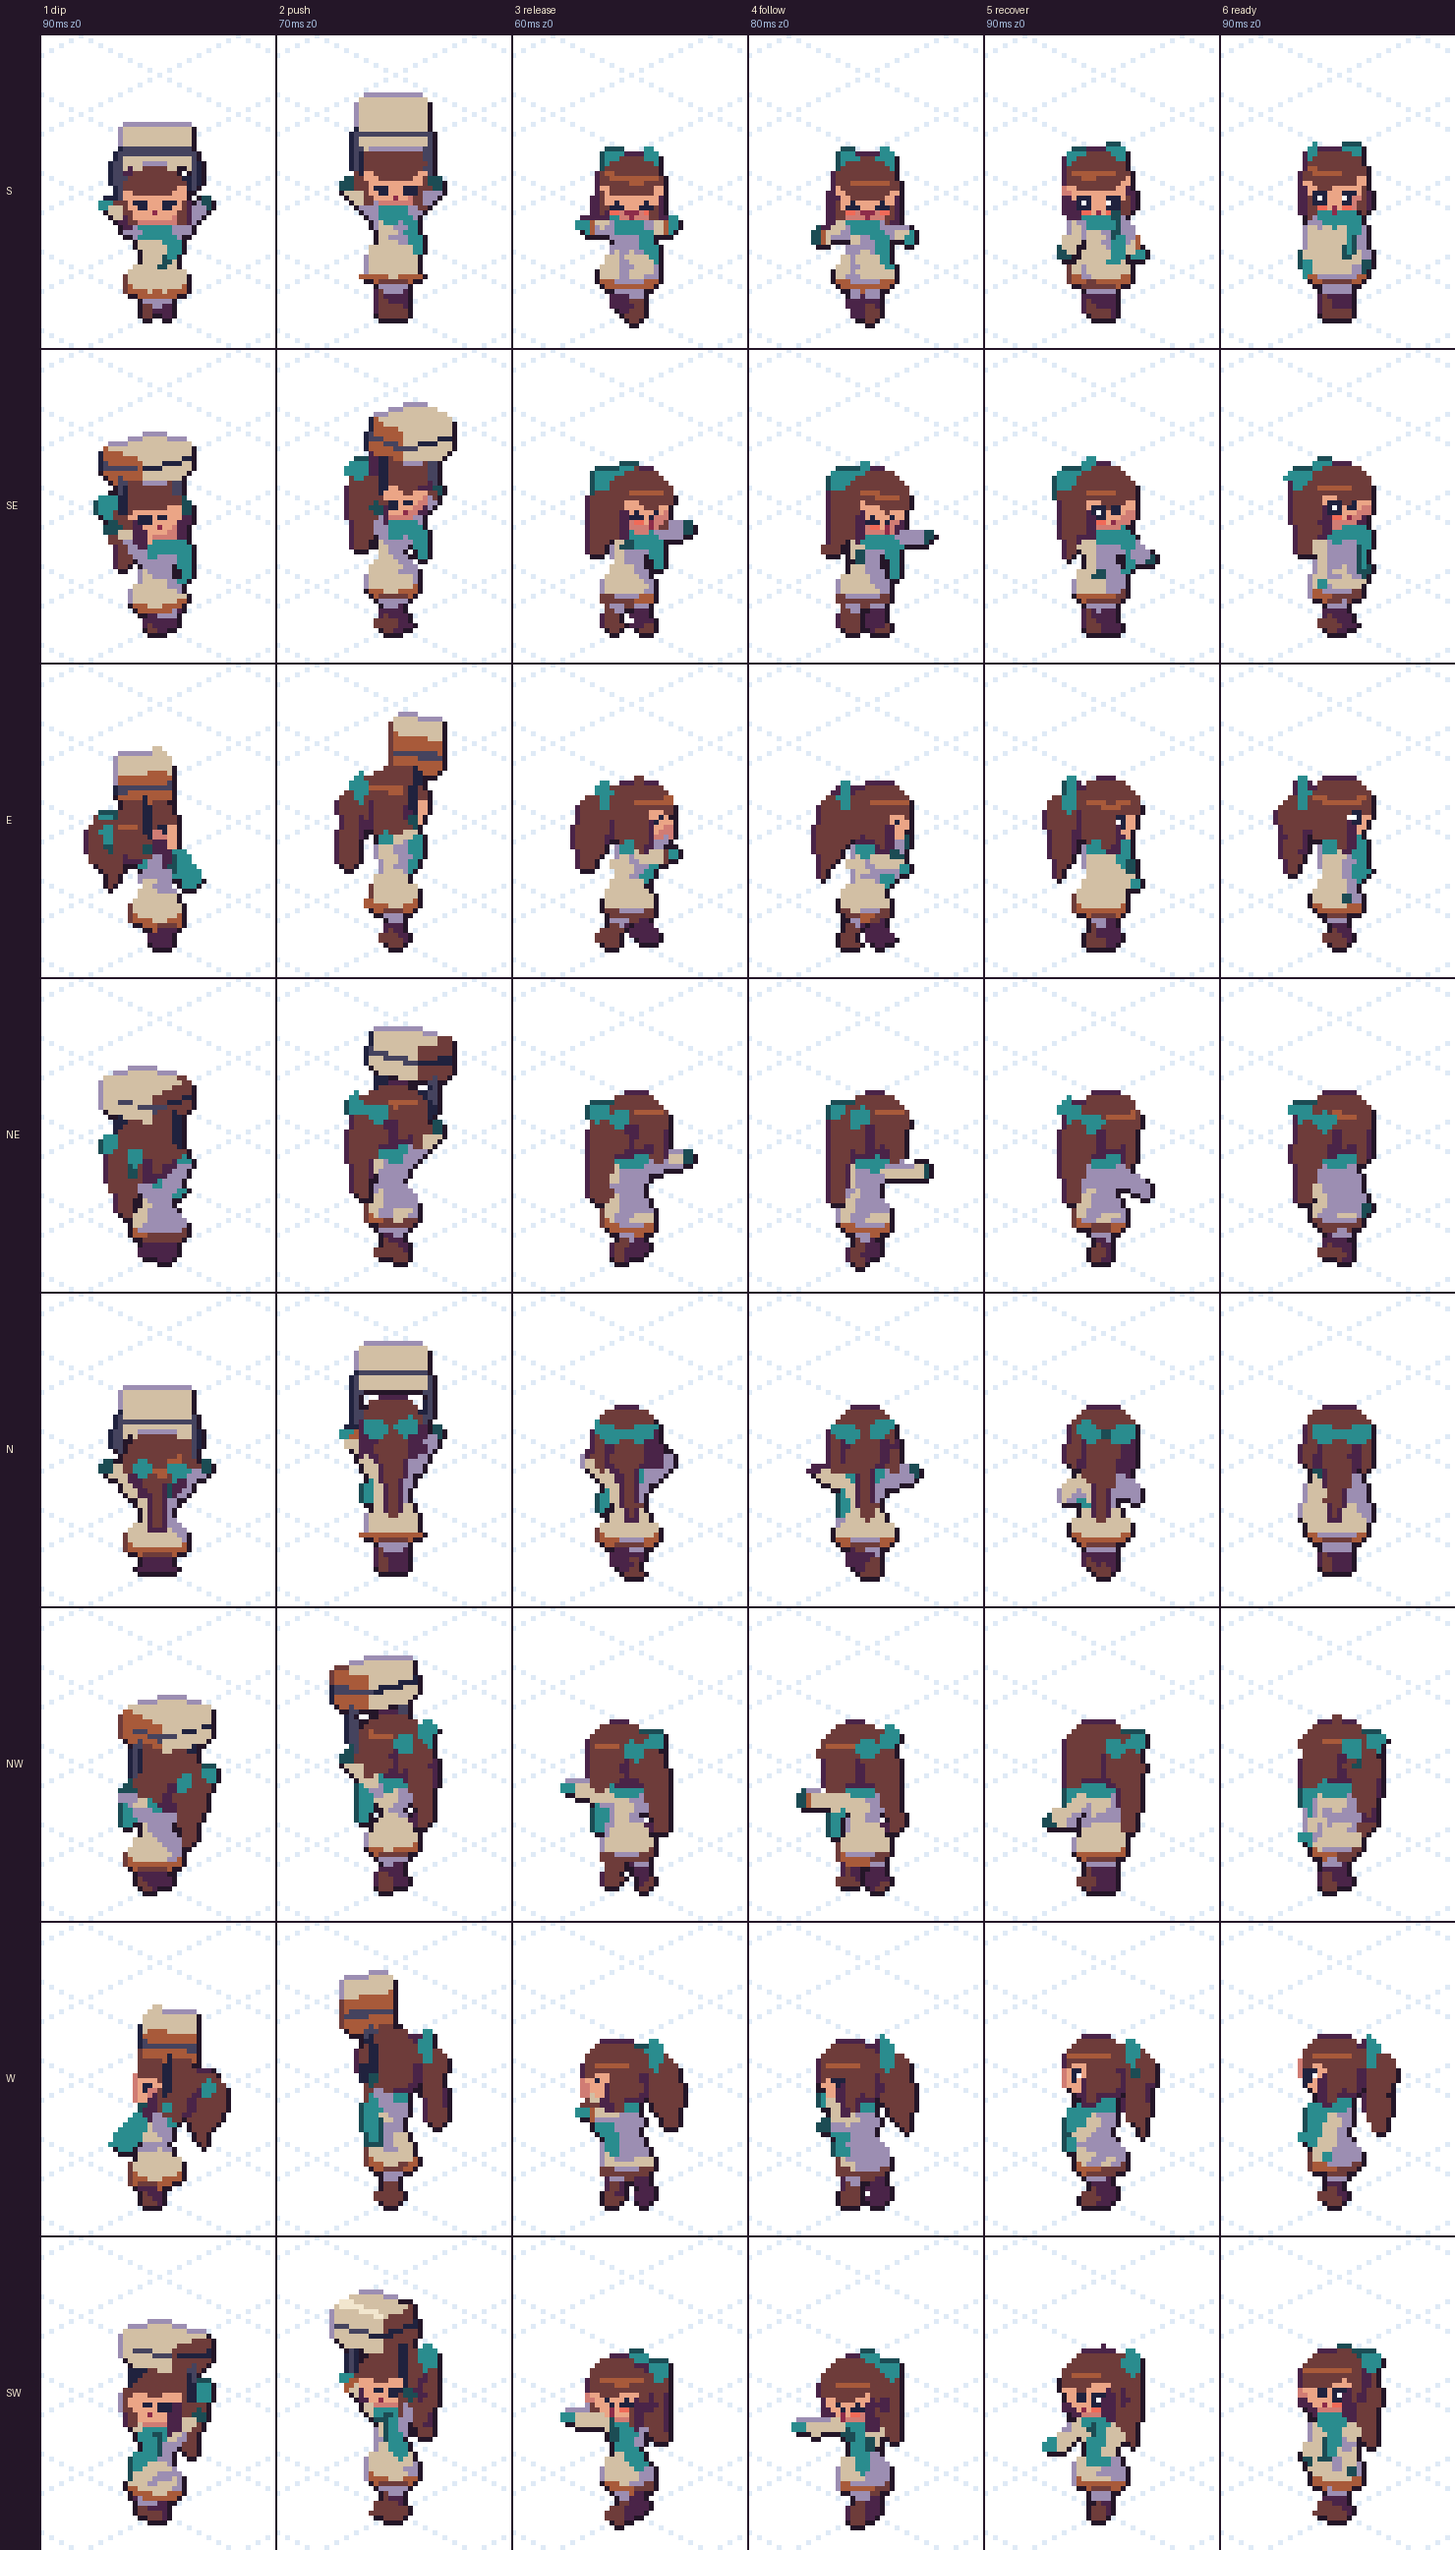
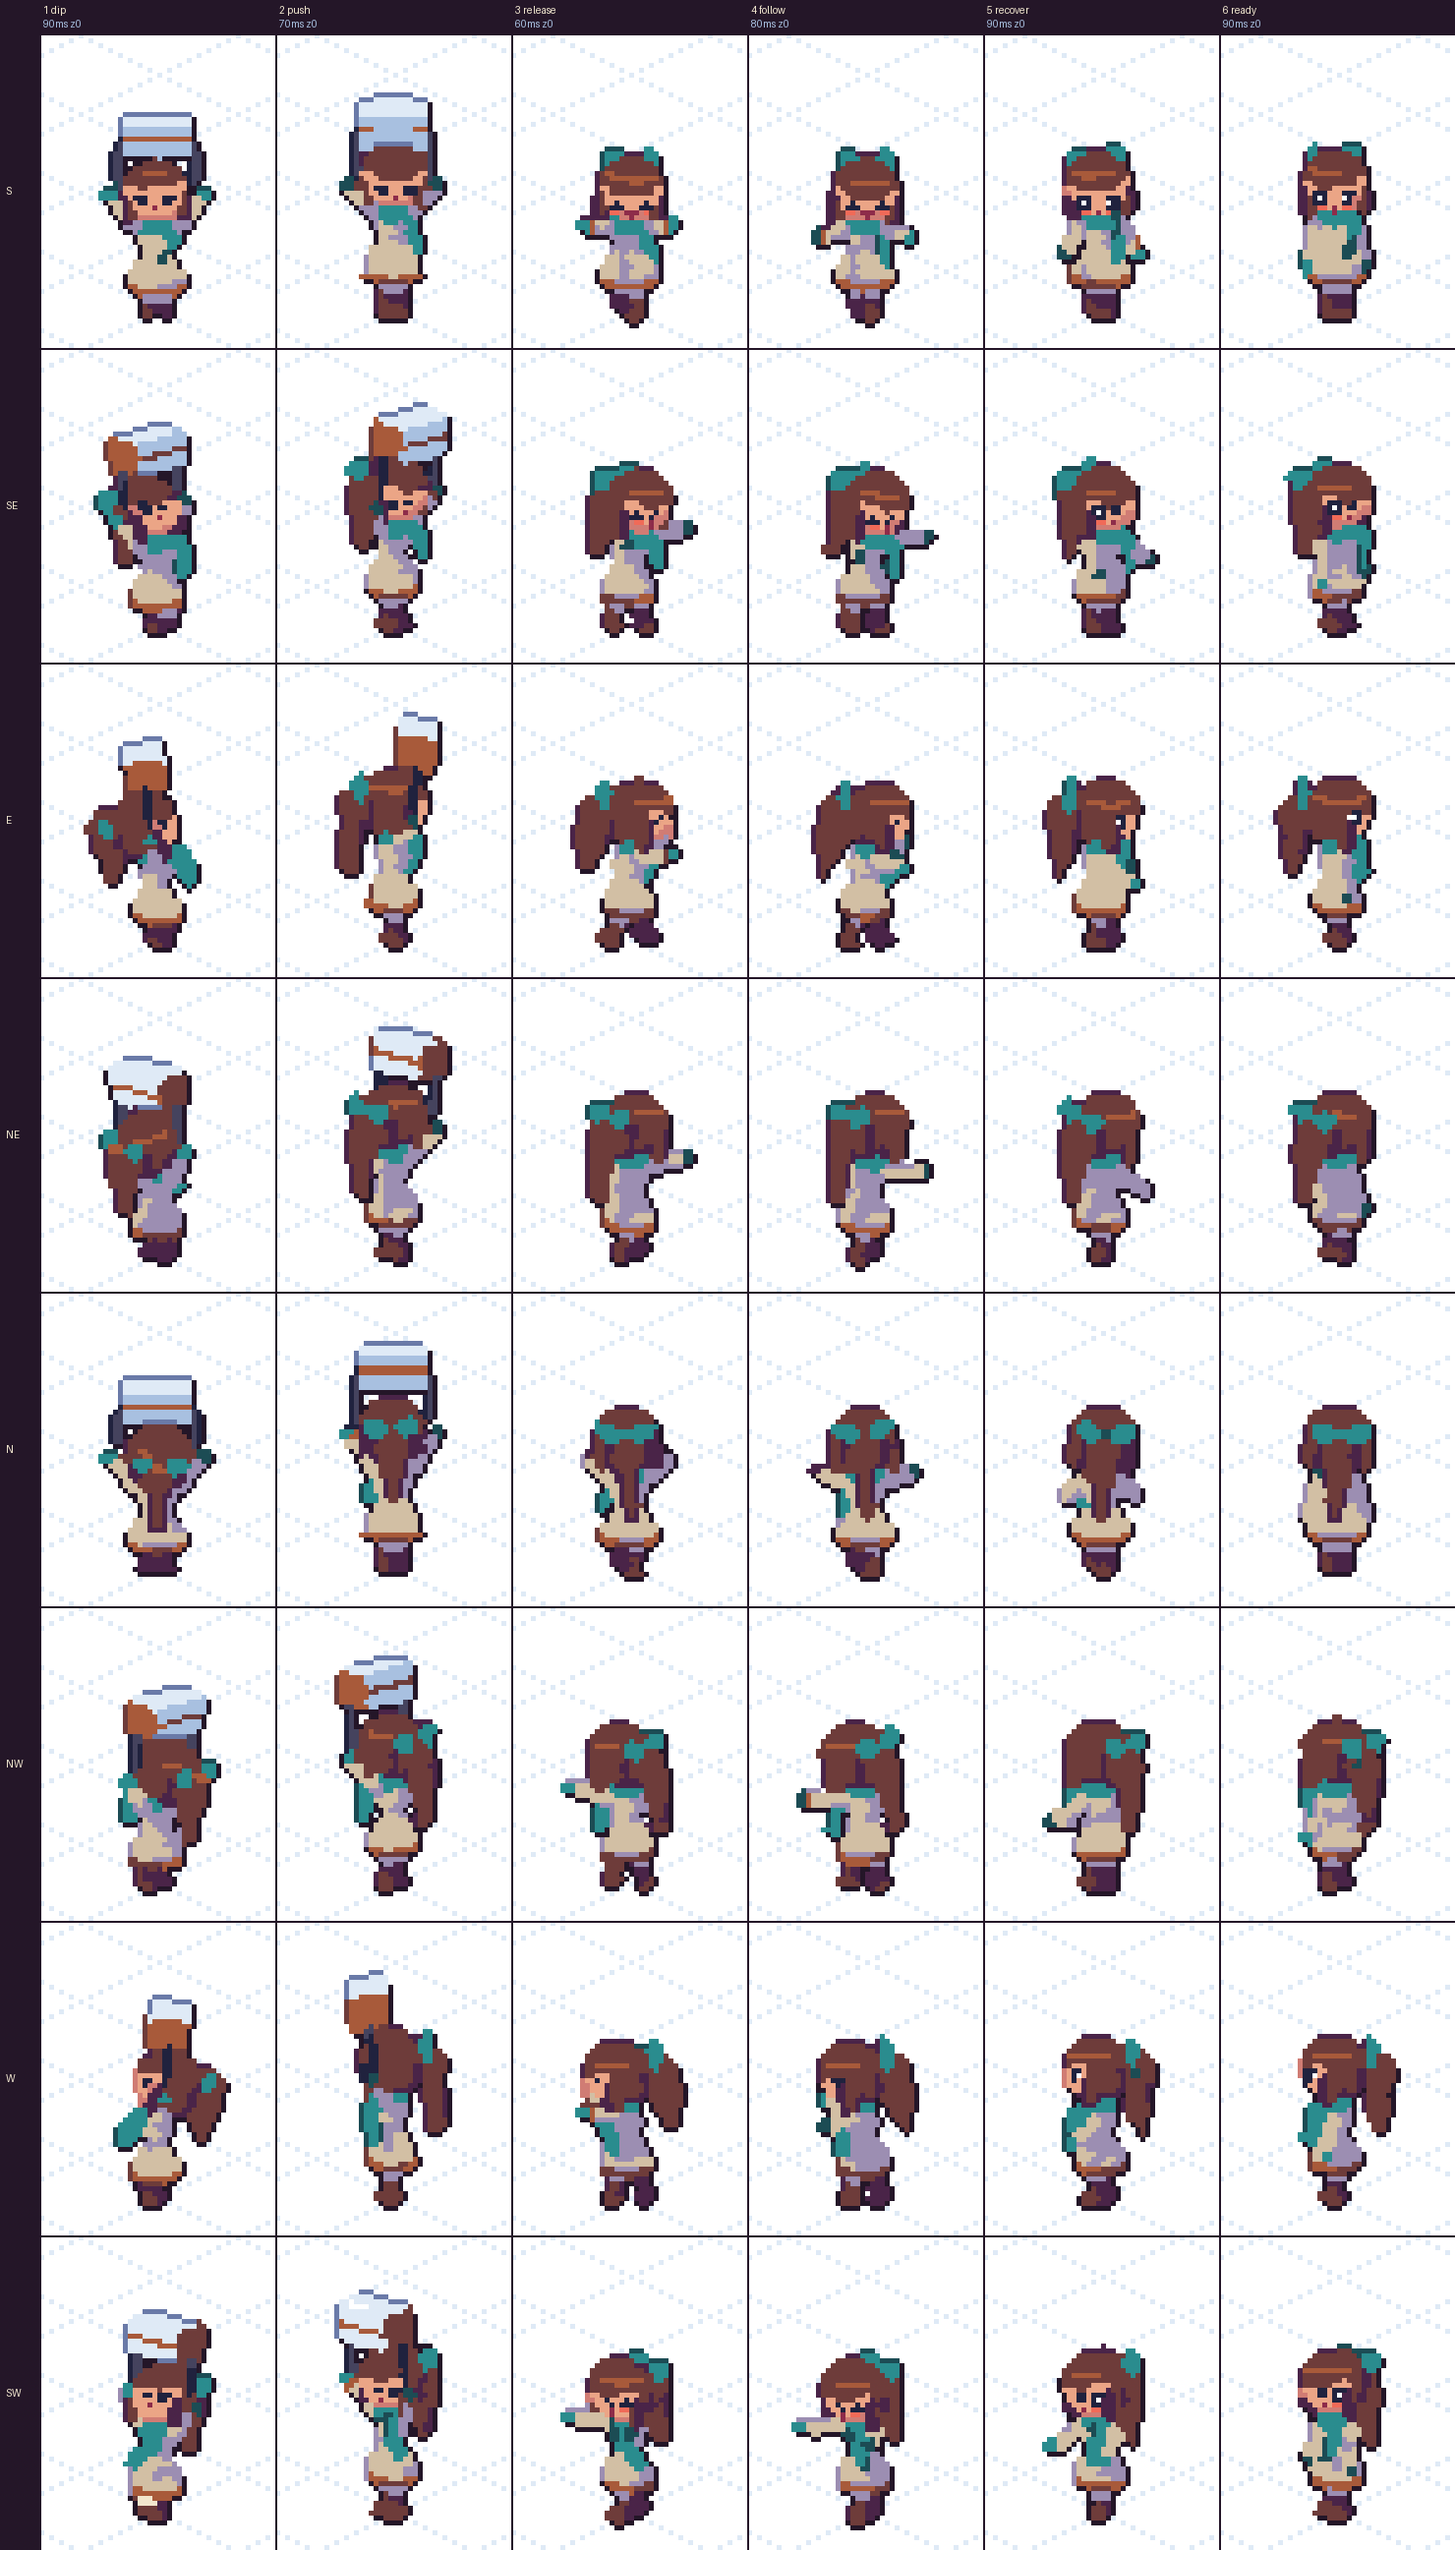
r11: carry_throw uses final crate

diff --git a/docs/review/r11_wpD.md b/docs/review/r11_wpD.md
@@ -1,33 +1,35 @@
 # r11 WP D: Throw / Air (S4_halfup_bow)
 
-Every clip passes QA with 0 chain penetrations and 0 orphans. Builds: throw 9, carry_throw 2, fall 5, land 1.
+All clips pass QA with 0 chain penetrations and 0 orphans.
 
-## throw: 8 frames, 520 ms, one-shot, cancelable from f7
+## throw: 8 frames, 520 ms, cancelable from f7
 | # | frame | ms | intent |
 |---|---|---|---|
-| 1 | scoop | 70 | `prop_show`. Deep crouch, right hand low with the snowball. |
-| 2 | pack | 60 | Both hands pat the ball at her chest. |
-| 3 | cock | 100 | Torso turned 30° away, ball out to the side and back. The left arm points at the target. |
-| 4 | step | 60 | Left-foot step (FK). The arm trails behind for a whip. |
-| 5 | release | 50 | `throw_release`. Arm straight forward at shoulder height. |
-| 6 | follow | 60 | Arm swings down across her body. |
+| 1 | scoop | 70 | `prop_show`. Deep crouch, hand low. |
+| 2 | pack | 60 | Pats the ball at her chest. |
+| 3 | cock | 100 | Torso turned 30° away, ball out side-back. Left arm aims. |
+| 4 | step | 60 | Left-foot step; the arm trails (whip). |
+| 5 | release | 50 | `throw_release`. Arm forward at shoulder height. |
+| 6 | follow | 60 | Arm swings across her body. |
 | 7-8 | recover, ready | 60 each | Back to rest. |
 
-The snowball is on `hand_R` at the plan's offset, radius 2.5. It is drawn on f1-f4 and hidden from f5.
+Snowball: on `hand_R`, offset (0,-1.6,0.7), radius 2.5, drawn on f1-f4.
 
 ## carry_throw: 6 frames, 480 ms, cancelable from f5
-dip 90 (knees bend, crate sinks 0.8u, still clear of the head), push 70 (crate goes up and forward), release 60 (`throw_release`, arms thrust forward, step), follow 80, recover 90, ready 90. The crate prop is copied from `carry_idle.json` when the clip is generated. Once WP C freezes its spec, regenerate the clip so it picks that up.
+dip 90, push 70, release 60 (`throw_release`, arms thrust forward, step), follow 80, recover 90, ready 90.
+- **Crate:** WP C's `carry_idle.json` `props[0]`, copied verbatim. `frames` is set to dip and push.
+- **Dip:** uses C's hold pose (176 / 38 / elbow 12) and dips with the knees only.
+- **Head clearance:** crate box vs the hair_cap shape. Dip 1.29, push 1.35; carry_idle measures 1.26-1.31.
 
-## fall: loop, 4 frames x 80 ms, loop_seam 0.0
-Arms flap out to the sides and the left arm leads the right by one key. Knees are tucked and pigeon-toed. A net head pitch of about 10° swings the pony back so it reads as lifted. z_px stays 0 because the engine owns height.
+## fall: loop, 4 x 80 ms, loop seam 0.0
+Arms flap out to the sides, the left one key ahead of the right. Knees are tucked and pigeon-toed. Head pitched about 10° forward swings the pony back, so it reads as lifted. z_px stays 0 because the engine owns height.
 
 ## land: derived from jump_sc frames [9, 13]
-touchdown, hop, plop, settle, ready; 290 ms; `land` event on f1.
+touchdown, hop, plop, settle, ready; 290 ms; `land` on f1.
 
 ## Known issues
-- **Overhand cock.** The head is huge next to an 11.5u arm, so a high cock gets hidden by the head or pony in many directions. The cock is therefore side/back at chest-to-shoulder height. Snowball pixels at the cock are 4-8 in most views, but only 0-3 in W and SW (the far side, behind the pony).
-- **Release in NW.** The forward-right arm points straight away from the camera, so it is hidden in NW.
-- **Fall arms in E/W.** The flaps are mostly in depth, so they read weakly from the side.
-- **Land cancel window.** The derived clip inherits jump_sc's `cancelable` on hop, so cancel opens at f2 rather than the plan's f3. A derived clip can't patch individual frames.
-
-Generator scripts are in /tmp/wpd/gen/*_gen.py (outside the repo).
+- **Throw cock:** the large head hides a high overhand cock, so the cock is low, out to the side and back. Snowball visibility is 4-8 px in most views but only 0-3 px in W/SW, behind the pony.
+- **Release, NW:** the arm points away from the camera, so it is hidden.
+- **Fall, E/W:** the arm flaps are mostly in depth and read weakly.
+- **Land cancel:** a derived clip inherits hop's cancelable flag, so cancel opens at f2 instead of f3.
+- **Crate, N/NE:** the crate draws over the hair top on screen. This is depth ordering only, the same as in carry_idle.

diff --git a/docs/review/r11_review1_GD.md b/docs/review/r11_review1_GD.md
@@ -1,0 +1,71 @@
+# r11 Review 1: Game Director
+
+Script: `/tmp/gd_r11/check_r11.py` (full output: `/tmp/gd_r11/report.txt`). It checks every clip's sheet JSON and PNG against `r11_action_set_plan.md`.
+
+## Script results
+
+| clip | result | failing checks |
+|---|---|---|
+| idle, walk, run, jump_sc, fall | PASS | - |
+| climb, climb_top | PASS | - |
+| land | FAIL 2 | cancel (opens at f2 / 70 ms; plan says f3 / 120 ms), `derivedFrom` missing |
+| pick_up | FAIL 3 | `props[]` has 6 duplicate crate entries, no per-frame `prop.layer`, no `_prop` strip |
+| carry_idle | FAIL 2 | no `prop.layer`, no `_prop` strip |
+| carry_walk | FAIL 2 | no `prop.layer`, no `_prop` strip |
+| throw | FAIL 2 | no `prop.layer`, no `_prop` strip |
+| carry_throw | FAIL 2 | no `prop.layer`, no `_prop` strip |
+
+These all passed:
+- frame counts, total ms, durations in multiples of 10, loop flags
+- every event on its planned frame
+- direction sets
+- 48x64 cells and pivot (24,57) everywhere
+- PNG and strip grids
+- release anchors in all 8 directions (`hand_R[*][4]`, `carry[*][2]`)
+- climb `cycle_rise_px` 24; climb_top `root_px` decreasing steadily to (0,-30)
+- feet on row 57 +/-1 in every grounded frame
+- neutral-frame height within 1 px of idle (run within 2 px)
+
+Warnings, no action needed:
+- Throw and carry_throw step frames reach row 59. That is the step toward camera.
+- pick_up f3 reaches row 61 because the baked crate sits in front of her.
+- Chain pops are all intended pose changes:
+  - fall to land: dtop 7, the touchdown squash
+  - idle to throw: dtop 5, the scoop
+  - carry_idle to carry_throw: dtop 4, the dip
+  - walk to run: dbot 2
+- The land, jump, throw, carry_throw and climb_top exits into idle all match within 1 px (IoU at least 0.93). pick_up to carry_idle matches within 2 px.
+
+## Per clip
+
+- **idle: APPROVE.**
+- **walk: APPROVE.**
+- **run: CHANGES.** At 4x on a phone it reads as a fast walk. The 8° lean isn't visible, the stride is about the same width as walk, and the arms don't pump. Widen the push and flight leg spread by 2-3 px. Add a visible forward lean (head 1-2 px ahead of the hips in E/W/SE/SW). Swing the elbows clear of the torso on push frames.
+- **jump_sc, fall: APPROVE.**
+- **land: CHANGES.** Either make f2 (hop) non-cancelable and set `inputLockEnd_ms` to 120, or change the plan to f2+. Emit `derivedFrom: {"clip":"jump_sc","frames":[9,13]}` so re-cuts track jump_sc.
+- **climb: APPROVE.**
+- **climb_top: APPROVE.** It hands off to idle with no pop.
+- **pick_up: CHANGES.**
+  - Collapse `props[]` to one crate declaration. Move per-frame offsets into a per-frame `prop` object.
+  - The QA warning still stands: one frame uses 18 colours (limit is 16).
+  - In E/W the crate reads as a tall thin column, not a box. Give it real depth so it looks like the same cube from every side.
+- **carry_idle, carry_walk: CHANGES.**
+  - Same E/W crate silhouette fix as pick_up.
+  - In S/SW the crate's bottom edge sits on the hair line. Lift it 1-2 px so it clears the head (the "props never clip the head" gate).
+  - The carry offset (0,17.8,0) doesn't match the plan's (0,3,1.5). Reconcile them in the frozen carry spec.
+- **throw: CHANGES (data only).** The art reads well: the snowball shows at 4x, and the release pose is clear in all 8 directions.
+- **carry_throw: CHANGES (data only).**
+
+## Blocking issue for every prop clip
+
+Props are baked into the body sheet. There is no `<clip>_prop.png`, and frames carry only `props:["name"]`, not `prop:{id,bone,visible,layer}`. That means:
+- the engine can't hide the world crate and swap in a rock
+- the engine can't order the prop front or back
+- carry and snowball art can't be reused across clips
+
+Fixes:
+1. Export the prop strip on the same grid.
+2. Render the body without the prop.
+3. Emit a per-frame `prop` with `layer`.
+
+Then re-run `check_r11.py`.

diff --git a/00_REVIEW/r11_actions/README.md b/00_REVIEW/r11_actions/README.md
@@ -1,6 +1,6 @@
 # r11 - S4 action set (draft 1, before team review rounds)
 
-First pass by 4 parallel animators; all clips pass automated QA (no penetration, seamless loops, 0 orphans). carry_throw still uses a placeholder crate (being updated to the final crate). Team review rounds for consistency and animation quality are running next. These will be re-rendered on the new high-detail model; the animation data carries over.
+First pass by 4 parallel animators; all clips pass automated QA (no penetration, seamless loops, 0 orphans). Team review rounds for consistency and animation quality are running next. These will be re-rendered on the new high-detail model; the animation data carries over.
 
 | Clip (click for 8-dir GIF) | Frames / time | Dirs | Events | QA |
 |---|---|---|---|---|

diff --git a/00_REVIEW/r11_actions/carry_throw/qa_report.md b/00_REVIEW/r11_actions/carry_throw/qa_report.md
@@ -14,10 +14,10 @@
 - **orphan_pixels_worst**: []
 - **chain_penetrations**: 0
 - **chain_penetrations_by_chain**: {}
-- **jaggies_total**: 52
+- **jaggies_total**: 49
 - **jaggies_worst**: [('E_04', 3), ('N_02', 3), ('W_04', 3), ('S_02', 2), ('SE_06', 2)]
-- **max_colours_per_frame**: 14
-- **colours_used**: 16
+- **max_colours_per_frame**: 16
+- **colours_used**: 19
 - **overrides**: 0
 - **total_ms**: 480
 - **airborne_at_ms**: None
